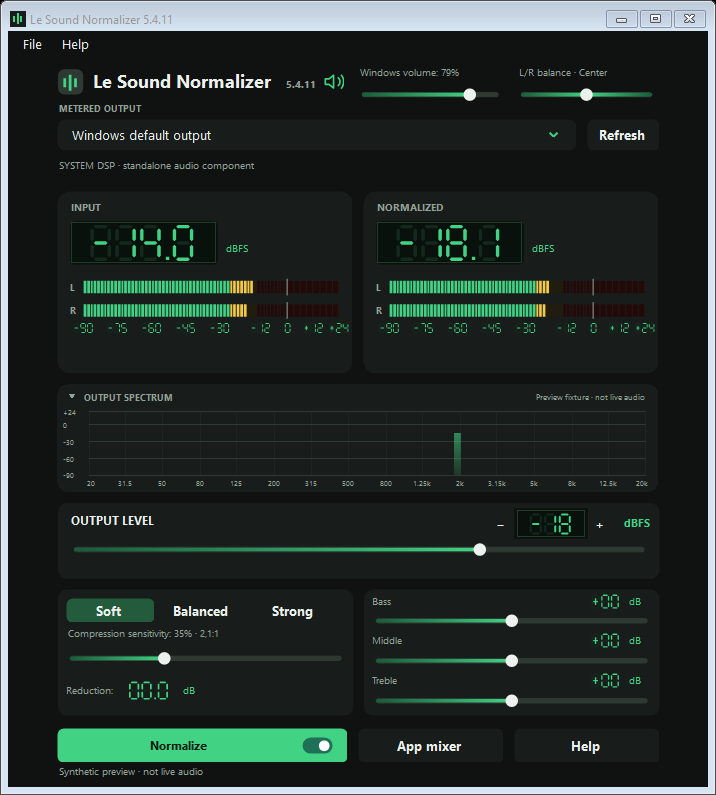
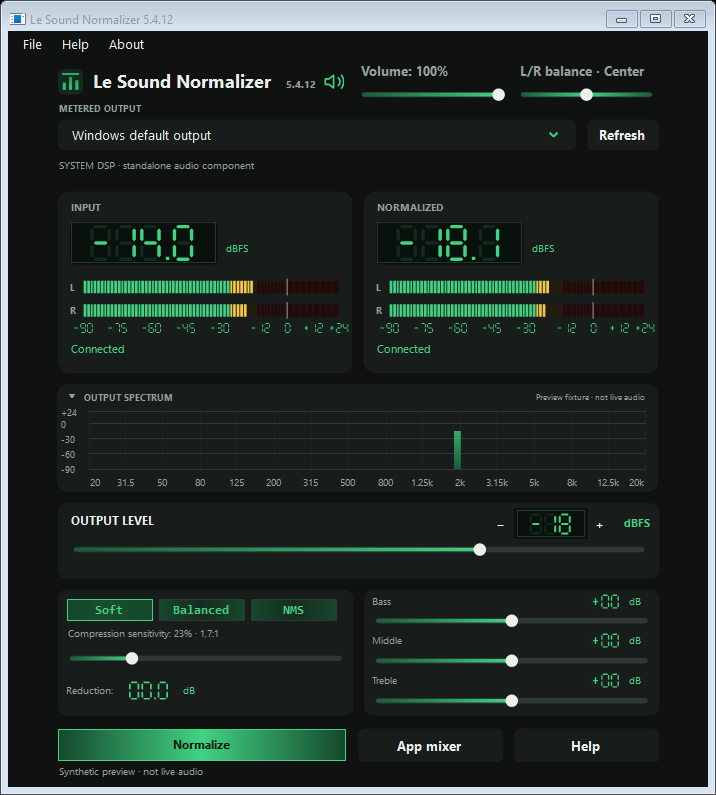
Polish normalization controls and add safe mute and sound presets

diff --git a/README.md b/README.md
@@ -1,87 +1,29 @@
-# Le Sound Normalizer — Windows Audio Control
+# Le Sound Normalizer
 
-![Development dashboard preview, synthetic signal](images/dashboard-preview.png)
+![Development dashboard with synthetic signals](images/dashboard-preview.png)
 
-The featured image is a version 5.4.11 development preview with synthetic meter and spectrum signals, not a live playback measurement.
+This version 5.4.12 preview uses synthetic signals, not a live playback measurement.
 
-A quiet dialogue scene followed by a loud effect can make a comfortable movie volume difficult to maintain. Le Sound Normalizer brings a configurable digital output ceiling, compression presets and tone controls into a Windows audio workspace.
+Normalizes loud scenes for more comfortable listening. Set an output ceiling, then adjust compression sensitivity to reduce the difference between quiet dialogue and loud effects.
 
-The interface lets the user inspect before-and-after levels, adjust the listening setup and review supported input devices. It controls digital sample levels; it is not a calibrated measurement or guarantee of physical sound pressure.
+- **Soft 23%**, **Balanced 42%**, **NMS 66%** compression starting points, plus an adjustable sensitivity slider.
+- **Output level** sets the digital peak ceiling. **Volume** controls everyday listening volume.
+- Bass, middle and treble controls, left/right balance, green digital meters and a collapsible frequency spectrum.
+- Save and load your own sound presets. Settings remember your preferences and window layout.
+- A speaker button mutes or unmutes the selected Windows output only when clicked.
+- Recording-input meters and explicit Enable/Disable listening actions, applied on Save.
+- Short Help, purpose-focused About and local application/native/crash diagnostics.
 
-## Tech stack
+## Audio paths
 
-| Layer | Technologies |
-|---|---|
-| Controller | C#, Windows Forms, .NET Framework |
-| Native audio | C++, Windows audio processing |
-| Compatibility | WASAPI, optional VB-CABLE |
+System DSP uses the application's own Windows audio component. It does not require Equalizer APO, Peace or a virtual cable. Setup requires administrator approval once; normal controller use does not. Compatibility is an optional alternative using WASAPI and an existing VB-CABLE installation.
 
-## Make sudden level changes easier to manage
+Native processing supports mono, stereo, 5.1 and 7.1 PCM. The player must decode compressed audio to PCM. Encoded HDMI/S/PDIF passthrough and paths bypassing Windows audio effects cannot be assumed to receive the ceiling. Digital dBFS readings are not physical sound-pressure measurements. Spectrum bars show individual frequency components; LED meters show the full-signal peak, so their values differ.
 
-Choose a maximum output level in dBFS and use Gentle, Movie or Night compression as a starting point. Adjustable compression strength lets the user shape the response for the material being played.
+## Availability and verification
 
-The ceiling and compression serve related purposes but are different controls. Review the before-and-after readings while adjusting the setup instead of assuming that one preset fits every recording.
+This is a development build with automated DSP/controller/package checks and limited host verification, not certification across all Windows systems or playback modes. The clean distribution contains the controller, bundled setup, runtime libraries and license, without development material. A new PC needs setup once to register the system audio component. No public binary download is published in this repository.
 
-## Shape the listening presentation
+The controller is built with C# and Windows Forms; its audio component is C++. Technical source and detailed versioned verification are maintained in the private repository.
 
-Bass, middle and treble controls support tone adjustments, while left/right balance helps adapt the stereo presentation. Before-and-after LED meters, digital readings and a collapsible spectrum make the effect easier to inspect.
-
-Appearance, meter and window preferences let the controller fit a brief adjustment or a longer listening session. The current settings remain close to the information used to review them.
-
-## Choose the supported audio path
-
-System DSP uses the application's own Windows audio component and does not require Equalizer APO, Peace or a virtual cable. Installing that component requires Windows administrator approval.
-
-The optional Compatibility engine uses WASAPI with an existing VB-CABLE installation. Automatic selection can fall back to that route when its prerequisites are available.
-
-## Understand where processing applies
-
-Native processing supports mono, stereo, 5.1 and 7.1 PCM. Encoded movie audio must first be decoded by the player; HDMI or S/PDIF passthrough and modes that bypass Windows effects cannot be assumed to receive the limit.
-
-Check active processor telemetry for the selected output before relying on its setting. The product's scope depends on the actual playback path, not just the presence of a volume control on screen.
-
-## Inspect recording inputs without disabling them
-
-Version 5.4 lists Windows recording endpoints such as microphones, line-in, stereo mix and virtual inputs. Available inputs have independent live level meters, while unavailable devices retain their status. Paging and refresh support reviewing a larger device list.
-
-Listen-to-playback choices apply on Save. They do not disable recording devices or change recording mute, volume or default routes. The [all-input settings image](images/all-inputs-settings-preview.png) is an isolated synthetic fixture, not the user's device inventory.
-
-## Keep balance and diagnostics understandable
-
-Balance adjusts the opposite side while processing is enabled and preserves the intended mono, centre and LFE behaviour. Application, native-component and crash logs provide separate places to investigate an interruption; logs do not record audio.
-
-The [USB input settings preview](images/usb-input-settings-preview.png) also uses an isolated fixture. Controller and processing behaviour have automated coverage, while live compatibility remains limited to the configurations actually tested.
-
-Version 5.4.1 simplifies the interface: purpose-focused About; Soft, Balanced and Strong compression presets; Original and Processed meters; fewer technical footnotes. Existing audio behavior and saved settings are preserved.
-
-## Current availability
-
-Le Sound Normalizer is a development build, not a broadly certified public release. The repository presents the product and its preview material; no public binary download is currently published here.
-
-Version-specific tests and private engineering material provide the appropriate detail for installation and compatibility work. A native processing lookahead value should not be read as a measurement of total playback latency.
-
----
-
-Private code: [le-sound-normalizer](https://github.com/logicencoder/le-sound-normalizer)
-
-**[Logic Encoder](https://logicencoder.com)** · [GitHub](https://github.com/logicencoder) · [Contact](https://logicencoder.com/contact/)
-
-Version 5.4.2 reduces About to one sentence and adds a selected-output icon beside the version: green speaker for non-Bluetooth output, blue Bluetooth for Bluetooth, neutral when unavailable. Connecting a device alone does not change the icon unless the output route follows it. The current HDMI route was verified live; Bluetooth transitions were checked with isolated fixtures, not physical pairing.
-
-Version 5.4.3 adopts the name **Le Sound Normalizer** across the application, installer and repositories. Existing settings and audio behavior are preserved. Older linked input screenshots are historical fixtures and may show the former name.
-
-Version 5.4.4 refreshes the output badge from Windows device notifications, adds endpoint-ancestry Bluetooth evidence when topology is unavailable, and records readable route changes. Notification registration and reacquisition were checked with live HDMI reads plus injected signals; physical Bluetooth hotplug is awaiting user testing. To follow Bluetooth automatically, choose Windows default in the app and route Windows playback to the Bluetooth device.
-
-Version 5.4.5 uses the exact name **Le Sound Normalizer** and meter labels **Input / Normalized**, with saved settings and audio behavior preserved. Bluetooth output detection concerns Windows-connected endpoints; headphones connected to a TV are downstream of HDMI and are not identified through Windows audio metadata.
-
-Version 5.4.6 labels the controls **Compression sensitivity** and **Output level**. Spectrum frequency-component levels and LED full-signal peaks are different measurements and need not have equal values. Calibration passed synthetic tests and a read-only live comparison against an independent direct DFT on captured Windows audio. The axis now explicitly labels -90 to +24 dBFS.
-
-Version 5.4.7 gives all sliders a dark-to-bright green selected range, including L/R balance and Settings controls. Bipolar center markers, saved values and audio behavior are preserved.
-
-Version 5.4.8 adds **-75 and -45 dBFS** scale labels to both LED meters, preserving their measurement and response behavior.
-
-Version 5.4.9 colors **both sides of L/R balance green**, brighter near the thumb and darker toward either edge, with unchanged balance/audio behavior.
-
-Version 5.4.10 names the main toggle **Normalize**. Its existing switch/color continue to show whether normalization is enabled.
-
-Version 5.4.11 adds the **-12 dBFS** label at the yellow/red transition under both LED meters, preserving color thresholds and audio behavior.
+[Private source](https://github.com/logicencoder/le-sound-normalizer) · [Logic Encoder](https://logicencoder.com)
